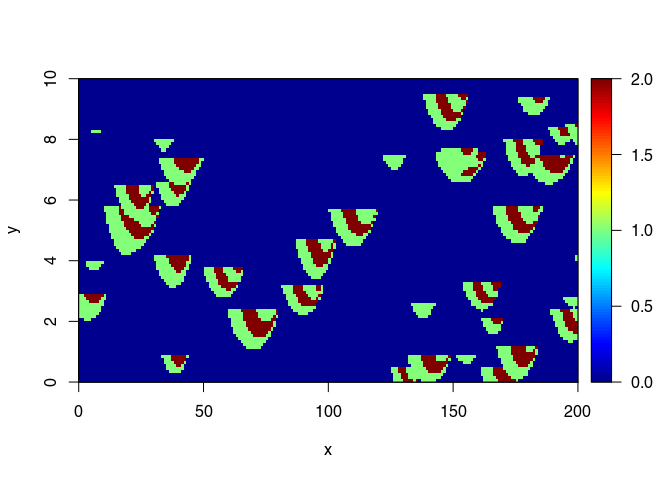
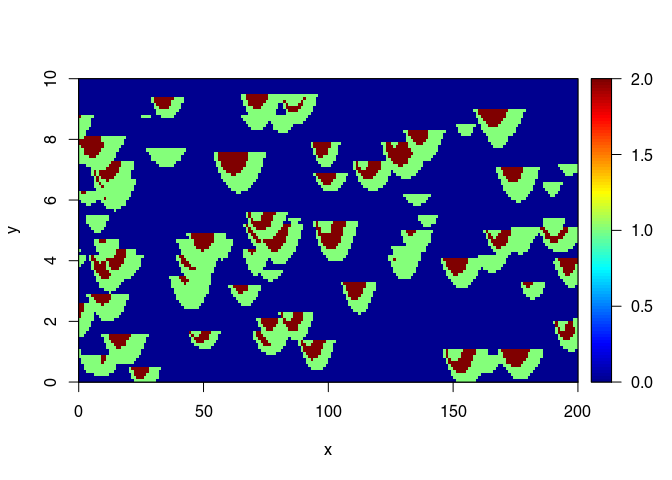
run tutorial

diff --git a/README.md b/README.md
@@ -134,11 +134,11 @@ para <- list("L"      = list(type = "runif", min = 40, max = 70),
              "vpp"    = list(type = "poisson",
                              lambda = 0.05),
              "hpp"    = list(type = "strauss",
-                             bet = 1e-3,
+                             bet = 1e-2,
                              gam = 0.2,
                              d = 100,
                              fd = c(5, 1),
-                             nit = 1000, n0 = 3),
+                             nit = 5000, n0 = 3),
              "nF"     = list(type = "rint", min = 2, max = 5),
              "rpos"   = list(type = "runif", min = 0.65, max = 1), 
              "phi"    = list(type = "runif", min = -1.5, max = 1.5)
